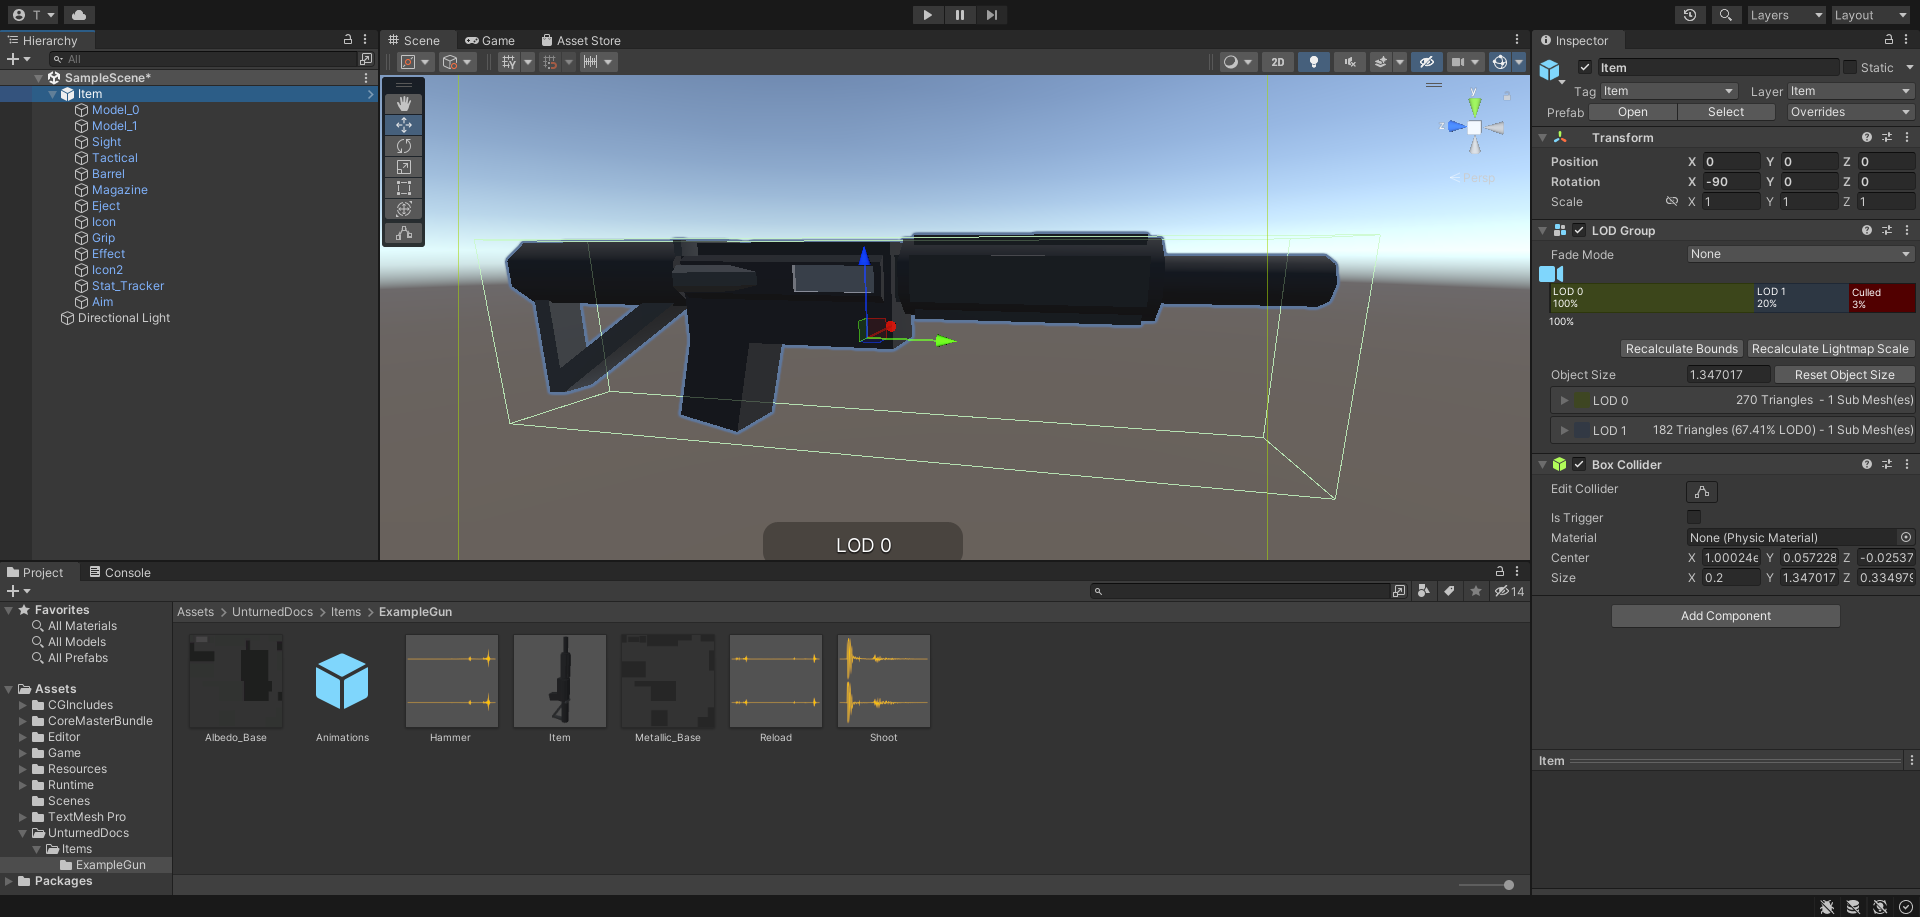
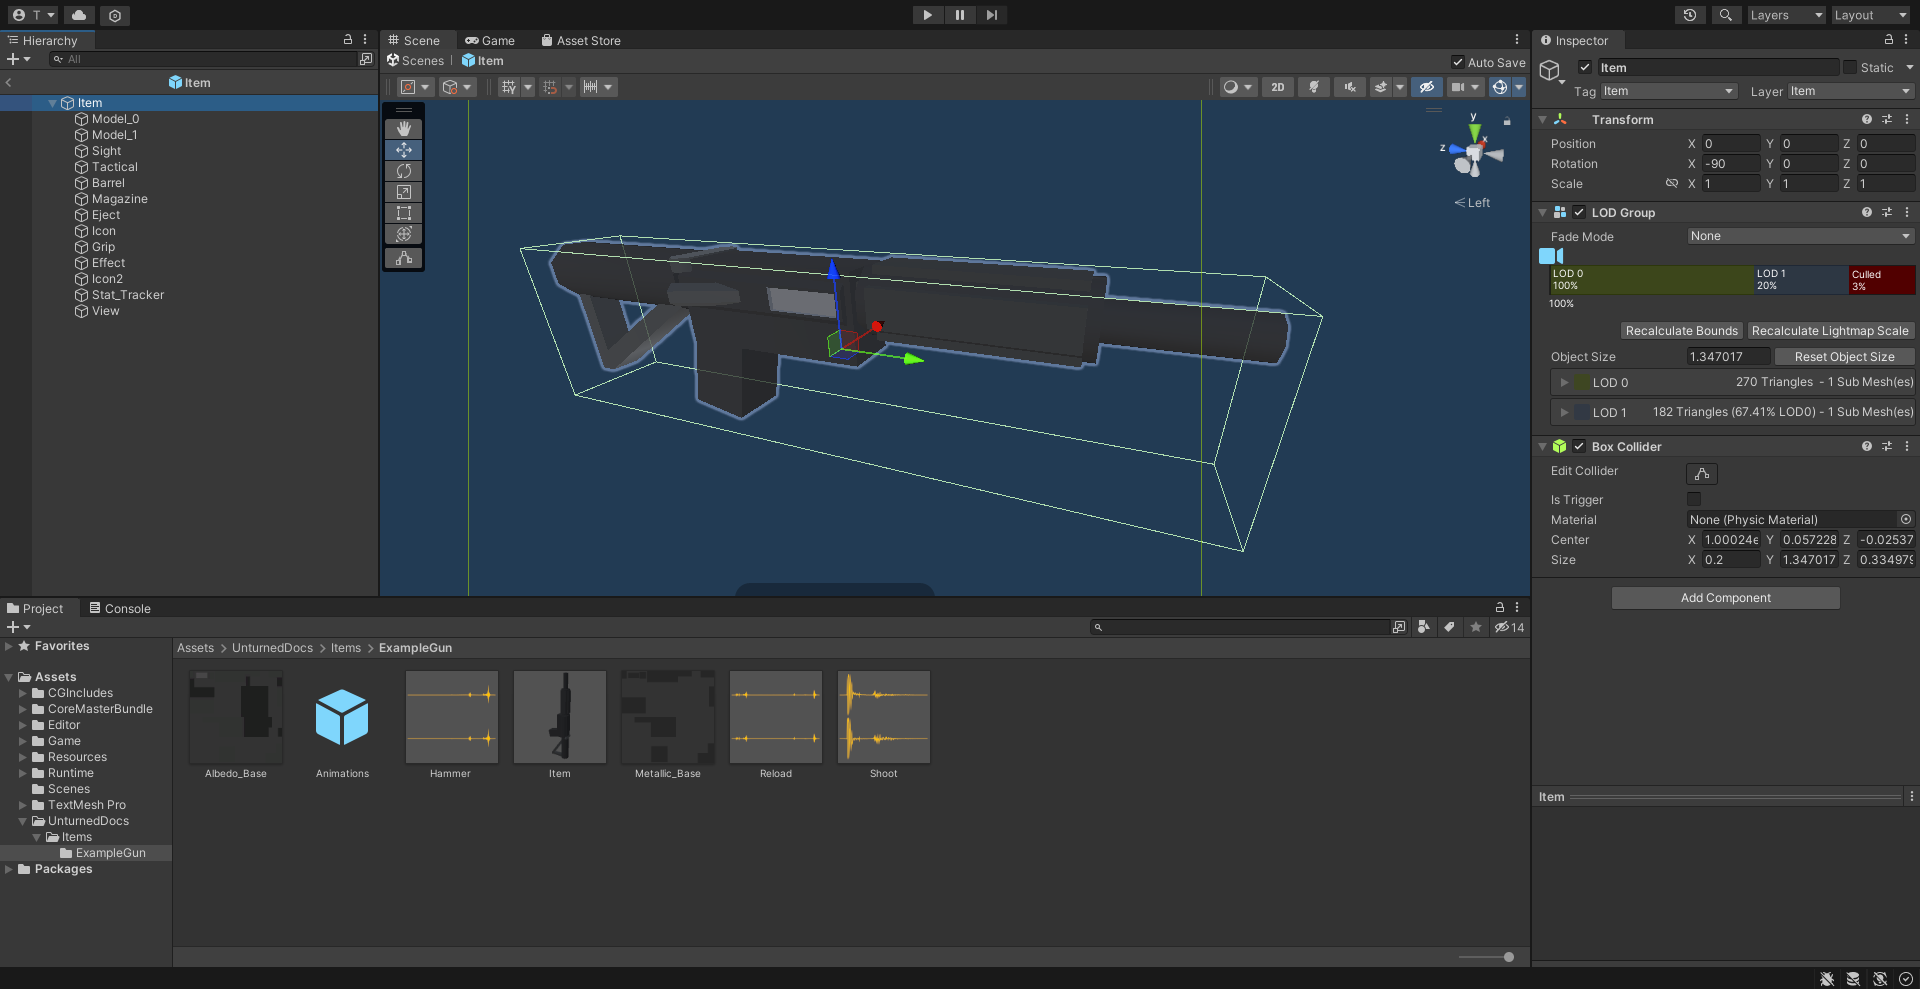
Unity setup for Guns

diff --git a/assets/item-asset/gun-asset.rst b/assets/item-asset/gun-asset.rst
@@ -7,21 +7,68 @@ Ranged weapons can be used as a source of damage. Ranged weapons always show qua
 
 This inherits the :ref:`WeaponAsset <doc_item_asset_weapon>` class.
 
-Unity Setup / GameObject
-------------------------
+Unity Setup
+-----------
 
 .. figure:: /assets/img/UnityExampleGun.png
 	
 	An example of a gun being set up in the Unity editor.
 
-The item gameobject needs transforms called "Sight", "Grip", "Barrel", "Magazine", "Tactical" and "Eject". Shells/casings are emitter from "Eject" along the Z axis. Sights, grips, barrels and magazines are aligned along the Y axis with Z up. Tacticals are aligned along the Y axis with the X axis up.
+To get started, either follow the steps to begin creating a custom item from the :ref:`introduction <doc_item_asset_intro>`, or duplicate the contents of a prepackaged example asset.
 
-Audioclips called "Shoot", "Reload" and "Hammer". An "Aim" audioclip can be included as well.
+Item (Prefab)
+`````````````
 
-Animations called "Aim_Start", "Aim_Stop", "Attach_Start", "Attach_Stop", "Equip", "Hammer", "Reload", "Scope", "Sprint_Start" and "Sprint_Stop". The "Scope" animation is played when firing a single shot weapon while scoped.
+Open the "Item" Prefab, and add six child GameObjects named "Barrel", "Grip", "Sight", "Tactical", "Magazine", and "Eject". Most custom guns will want to have these six child GameObjects, although they are not strictly required.
 
-File Setup / Data
------------------
+The "Barrel", "Grip", "Sight", "Tactical", and "Magazine" GameObjects will determine the location of attachments on your gun. The "Sight" GameObject also determines where the camera will be positioned when aiming down sights. Shells are emitted from the "Eject" GameObject.
+
+If an "View" GameObject is added, the camera will use its position when aiming down sights whenever a sight attachment has not been attached to the gun.
+
+Additional Setup for Bows
+:::::::::::::::::::::::::
+
+.. figure:: /assets/img/UnityExampleCrossbow.png
+	
+	An example of a crossbow being set up in the Unity editor.
+
+Bows require additional GameObjects to simulate the drawing of the bowstring. Note that bowstrings are only simulated from the first-person perspective.
+
+Add a new child GameObject named "Rope", and set its state to inactive. The "Rope" GameObject should include a Line Renderer component. Vanilla bowstrings use a custom Material named "Rope" with the Unlit-Rope Shader, but this is not required.
+
+Add two child GameObjects named "Left" and "Right". These GameObjects will determine the end points of the bowstring. If a third GameObject named "Rest" is included, it will be used as the middle point of the bowstring when aiming down sights.
+
+Including a fourth GameObject named "Nock" will allow the bow to be fired without aiming down sights. Additionally, the "Rest" GameObject will act as a middle point when not aiming down sights, and the "Nock" GameObject will act as a middle point while aiming down sights.
+
+Additional Setup for Economy Items
+::::::::::::::::::::::::::::::::::
+
+There are several child GameObjects that can be added related to skins. Custom items are ineligible to receive skins, so there is usually no reason to add these to the Prefab.
+
+If an item has an "Icon2" GameObject included, its position and orientation will be used when generating icons of skins on this item. A GameObject named "Stat_Tracker" determines the location where stat trackers will appear on the gun, while a GameObject named "Effect" will determine the position of mythical effects on the gun.
+
+Animations (Prefab)
+```````````````````
+
+In addition to animations used by any equippable item, guns have an additional set of animations that they can use.
+
+Adding animations named "Aim_Start" and "Aim_Stop" will cause an animation to be played whenever the player starts or stops aiming down sights. Animations named "Attach_Start" and "Attach_Stop" will play when an attachment is attached or unattached to the gun. The "Sprint_Start" and "Sprint_Stop" animations play when the player starts and stops sprinting. The "Reload" animation is played when reloading the gun.
+
+The "Hammer" animation is played under certain conditions where it would make sense to manually eject a cartridge from the gun. For example: after reloading an gun that had an empty magazine, or after firing a bolt-action rifle.
+
+The "Scope" animation is played when firing a single-shot weapon while scoped. For example, a bolt-action rifle or pump-action shotgun.
+
+Audio Clips
+```````````
+
+In addition to the Audio Clips that can be included for equippable items, guns have an additional set of audio clips they can use.
+
+If an Audio Clip named "Shoot" is included, it will play after the gun is fired. Including Audio Clips named "Reload" and "Hammer" will cause audio to play after reloading and hammering the gun, respectively.
+
+An "Aim" Audio Clip can be included to have audio play after aiming down sights. For example, a longbow might want to have an the sound of the bow being drawn play. Miniguns can also include an Audio Clip named "Minigun" to have audio play while revving the minigun.
+
+File Setup
+----------
 
 Item Asset Properties
 `````````````````````
@@ -95,7 +142,7 @@ Effects
 Firing Mechanism
 ::::::::::::::::
 
-**Action** *enum* (``Bolt``, ``Break``, ``Minigun``, ``Pump``, ``Rail``, ``Rocket``, ``String``, ``Trigger``): The rocket-action mechanism has inherently explosive projectiles, uses physics projectiles instead of ballistic projectiles, and has infinite firing range.
+**Action** *enum* (``Bolt``, ``Break``, ``Minigun``, ``Pump``, ``Rail``, ``Rocket``, ``String``, ``Trigger``): The rocket-action mechanism has inherently explosive projectiles, uses physics projectiles instead of ballistic projectiles, and has infinite firing range. By default, a ranged weapon using the string-action mechanism can only be fired while aiming down sights.
 
 **Auto** *flag*: Specified if the automatic firing mode should be available.
 

diff --git a/assets/item-asset/introduction.rst b/assets/item-asset/introduction.rst
@@ -5,17 +5,42 @@ Introduction to Items
 
 Items in *Unturned* encompass anything that can be carried in a player's in-game inventory. All items will share certain properties, but each item type may have its own unique properties as well. Please refer to :ref:`Asset Definitions <doc_asset_definitions>` and :ref:`Asset Bundles <doc_asset_bundles>` for the full documentation regarding assets and asset bundles.
 
-Unity Setup / GameObject
-------------------------
+Unity Setup
+-----------
 
-A gameobject called "Item" tagged and layered with 4 and 13 respectively. There should be a box collider component with minimum dimensions (0.2, 0.2, 0.2). Any renderers can be attached to the root or with LODs as Model_#. Parent a transform called "Icon" to it. This is used to draw an icon with an orthographic camera. To test the position of your icon attach a temporary Camera and adjust its Size value. This value should be assigned to Size_Z in the data.
+.. figure:: /assets/img/UnityExampleItem.png
+	
+	An example of an item being set up in the Unity editor.
 
-If you would like a sound to play when the item is equipped include an audioclip called "Equip".
+To get started, create a new folder for your custom item. The name of this folder will be relevant when further configuring your item after it has been exported from Unity.
 
-For any equippable items a gameobject with an Animation component must be attached. Every item should have an Equip animation at least, any others required will be mentioned in the per-item documentation. If you would like your item to be inspectable it needs an Inspect animation.
+Item (Prefab)
+`````````````
 
-File Setup / Data
------------------
+Inside this folder, create a new Prefab named "Item". This should be tagged as 4: Item, and layered as 13: Item.
+
+Open the "Item" Prefab, and attach a Box Collider component to the root GameObject. It should have a minimum dimension of (0.2, 0.2, 0.2).
+
+If your item only has one LOD, you can attach Mesh Filter and Mesh Renderer components directly to the root GameObject. Configure these components as desired.
+
+It is recommended to have multiple LODs for your item, so that less needs to be rendered when the item is far away. If your item should have multiple LODs, attach a LOD Group component to the root GameObject. Create a child GameObject for each LOD, named "Model_#" (e.g., "Model_0", "Model_1"). Attach the Mesh Filter and Mesh Renderer components to each one. Configure these components as desired.
+
+Add a new child GameObject named "Icon" to the root GameObject. This will be used to draw an icon with an orthographic camera. To test the position of your icon, temporarily attach a Camera component with its Projection property set to "Orthographic". When satisfied with its position, delete the Camera component.
+
+Animations (Prefab)
+```````````````````
+
+For equippable items, create a new Prefab in your custom item's folder named "Animations". This should be tagged as 0: Logic and layered as 8: Logic.
+
+Add an Animation component to the root GameObject of the "Animations" Prefab. Every equippable item should have an animation named "Equip". If your weapon should be inspectable, it should also have an "Inspect" animation.
+
+Equip (Audio Clip)
+``````````````````
+
+To have a sound play when the item is equipped, include an Audio Clip named "Equip" in your custom item's folder.
+
+File Setup
+----------
 
 **GUID** *32-digit hexadecimal*: Refer to :ref:`GUID <doc_data_guid>` documentation.
 
@@ -36,7 +61,7 @@ Inventory Properties
 
 **Size_Y** *byte*: Height in inventory, in slots. Defaults to 1.
 
-**Size_Z** *float*: Orthogonal camera size for item icons. Defaults to -1.
+**Size_Z** *float*: Manually specify orthogonal camera size for item icons. This directly corresponds to the value of a Camera component's Size property in Unity. Defaults to -1.
 
 **Use_Auto_Icon_Measurements** *bool*: Automatically calculate axis-aligned item icon camera size from bounds. Defaults to true.
 
